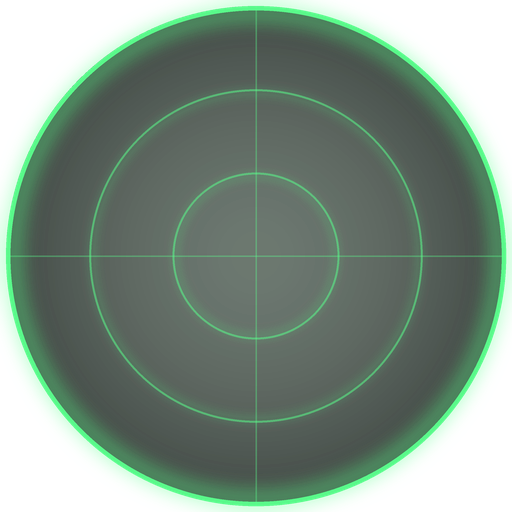
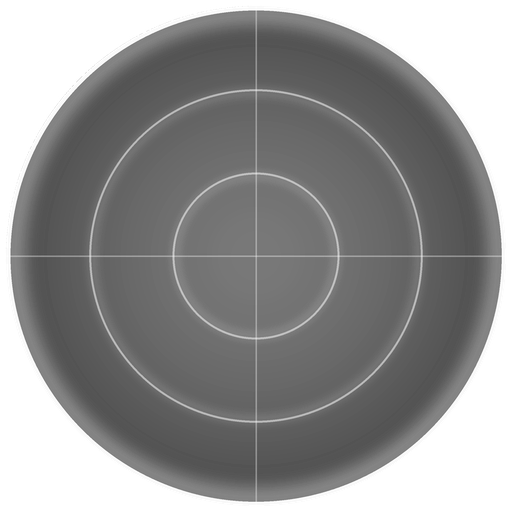
Sixth Sense v1.5.1: radar colours (green default, white, yellow, red, light blue) via a mouse-only Radar color snap slider; radar_color in the ini; Reset restores green; disc texture tinted

diff --git a/tests/stub_test.py b/tests/stub_test.py
@@ -534,7 +534,7 @@ C40 = g40.HUD_CFG
 check(os.path.exists(INI) and OLD in open(INI).read(), 'first load: rear_heat_hud.ini copied to sixth_sense.ini')
 check(abs(C40.sensitivity - 1.7) < 1e-9 and abs(C40.repeat_rate - 0.6) < 1e-9 and C40.dot_size == 'large' and abs(C40.radar_fx - 0.2) < 1e-9 and abs(C40.radar_aspect - 1.1) < 1e-9 and abs(C40.area_x0 - 11) < 1e-9, 'its sliders, area and radar keys are used')
 lg40 = open(LOGDIR + '/sixth_sense.log').read()
-check('Sixth Sense 1.5.0 loaded' in lg40 and 'settings copied from' in lg40, 'log is sixth_sense.log, copy logged')
+check('Sixth Sense 1.5.1 loaded' in lg40 and 'settings copied from' in lg40, 'log is sixth_sense.log, copy logged')
 open(LOGDIR + '/rear_heat_hud.ini', 'w').write('sensitivity=3.00\n')
 r41 = radar_rt(); u41 = r41.eval('update'); u41(0.016)
 check(abs(r41.globals().HUD_CFG.sensitivity - 1.7) < 1e-9, 'once only: an existing sixth_sense.ini is not overwritten')
@@ -764,6 +764,46 @@ rp = radar_rt(''); runr(rp, 220)
 for i in (4, 5): click_tab(rp, i); runr(rp, 2)
 lgp = open(LOGDIR + '/sixth_sense.log').read()
 check(not re.search(r' (MARK|PICK)\b', lgp) and 'MARKED' not in lgp and 'picked_ids' not in open(INI).read(), 'v1.5.0: clicks where Mark / Pick were log nothing; no picked_ids in the ini')
+# ---------------------------------------------------------------- v1.5.1: radar colours (mouse only)
+PAL = {'green': ((90, 255, 140), (255, 40, 40)), 'white': ((235, 235, 235), (255, 255, 255)), 'yellow': ((255, 225, 60), (255, 240, 0)),
+       'red': ((255, 70, 60), (255, 20, 20)), 'light_blue': ((110, 200, 255), (160, 225, 255))}
+ORDER = ['green', 'white', 'yellow', 'red', 'light_blue']
+FINDCFG = 'local function find(fn, name) for i = 1, 200 do local n, v = debug.getupvalue(fn, i); if not n then return end if n == name then return v end end end\nHUD_CFG = find(find(update, "step"), "CFG")'
+COLX = '\nCOLS = {}\nlocal gr = Gui.rect\nGui.rect = function(g, p, sz, c) COLS[c[2] .. "," .. c[3] .. "," .. c[4]] = true; return gr(g, p, sz, c) end\nHUD_CFG.radar_style = "dots"'
+open(INI, 'w').write(BASE146.replace('calibrate=false', 'calibrate=true') + 'v146_migrated=true\nradar_layouts=\n')
+rc = radar_rt(COLX); uc = rc.eval('update'); gc = rc.globals(); CC = gc.HUD_CFG
+def runc(sec):
+    for _ in range(max(1, int(sec / 0.016))): uc(0.016)
+def cols(): rc.execute('COLS = {}'); runc(0.1); return set(k for k, v in gc.COLS.items())
+def inival(k): return dict(re.findall(r'^(\w+)=(.*)$', open(INI).read(), re.M)).get(k)
+runc(3.5)
+check(CC.radar_color == 'green', 'default radar_color is green')
+cs = cols(); check('90,255,140' in cs and '255,40,40' in cs, 'default: green rings / cross hairs, red enemy dots (unchanged look)')
+click_tab(rc, 2); runc(0.5)
+tx, ty, tw, th = rc.eval('function(i) return SIXTH_SENSE_SLIDER(i) end')(5)
+for name in ['white', 'yellow', 'red', 'light_blue', 'green']:
+    frac = min(max(ORDER.index(name) / 4, 0.02), 0.98)
+    gc.MX, gc.MY = to_window(tx + tw * 0.5, ty + th / 2); runc(0.02); gc.LMB = 1; runc(0.02)
+    gc.MX, gc.MY = to_window(tx + tw * frac, ty + th / 2); runc(0.05); gc.LMB = 0; runc(1.2)
+    ring_, dot_ = PAL[name]; cs = cols()
+    check(CC.radar_color == name and inival('radar_color') == name and '; radar_color (v1.5.1)' in open(INI).read(), 'Radar color slider -> %s, saved with its comment (ini %s)' % (name, inival('radar_color')))
+    check('%d,%d,%d' % ring_ in cs and '%d,%d,%d' % dot_ in cs, '%s: rings / cross hairs %s and enemy dots %s drawn' % (name, ring_, dot_))
+CC.radar_color = 'yellow'
+for k in range(2, 16): rc.execute('PRESSED[%d] = true' % k); runc(0.02); rc.execute('PRESSED = {}'); runc(0.02)
+check(CC.radar_color == 'yellow', 'radar_color is mouse only: no key changes it')
+rc.execute('SIXTH_SENSE_CAL.dirty = true'); runc(1.2)
+r2c = runtime(); r2c.execute(FINDCFG)
+check(r2c.globals().HUD_CFG.radar_color == 'yellow', 'restart loads radar_color=yellow from the ini')
+click_tab(rc, 3); runc(0.1); click_tab(rc, 3); runc(1.2)
+check(CC.radar_color == 'green' and inival('radar_color') == 'green', 'Reset on Settings restores radar_color=green (saved)')
+open(INI, 'a').write('radar_color=purple\n')
+r3c = runtime(); r3c.execute(FINDCFG)
+check(r3c.globals().HUD_CFG.radar_color == 'green', 'unknown radar_color -> green')
+TEXC = EXTRA.replace('Gui.bitmap = function(g, mat, p, sz, c) BITMAPS = BITMAPS + 1 end', 'TINTS = {}\nGui.bitmap = function(g, mat, p, sz, c) BITMAPS = BITMAPS + 1; TINTS[c[2] .. "," .. c[3] .. "," .. c[4]] = true end') + '\nHUD_CFG.radar_color = "light_blue"'
+rt_ = radar_rt(TEXC); ut_ = rt_.eval('update')
+for _ in range(220): ut_(0.016)
+tints = set(k for k, v in rt_.globals().TINTS.items())
+check(rt_.globals().SIXTH_SENSE_RADAR.style == 'texture' and '110,200,255' in tints, 'texture disc tinted light_blue (%s)' % sorted(tints))
 os.remove(LOGDIR + '/rear_heat_hud.ini')
 print('calibration test:', 'PASS' if not fails else 'FAIL %d' % len(fails))
 if fails: raise SystemExit(1)

diff --git a/tools/radar_texture.py b/tools/radar_texture.py
@@ -1,4 +1,4 @@
-"""Rear Heat HUD radar disc texture: dark green-black see-through disc, bright green rim, rings at 1/3 and 2/3,
+"""Rear Heat HUD radar disc texture: neutral dark see-through disc, white rim (v1.5.1: tinted by radar_color), rings at 1/3 and 2/3,
 crosshair. Drawn at 4x and scaled down for smooth edges. Writes assets/radar_disc.png (512x512 RGBA)."""
 import math, sys
 from pathlib import Path
@@ -6,7 +6,7 @@ from PIL import Image, ImageDraw, ImageFilter
 import numpy as np
 
 SIZE = 512
-GREEN = (90, 255, 140)
+GREEN = (255, 255, 255)   # v1.5.1: white lines, tinted in game by radar_color (green 90,255,140 by default)
 
 def disc(size=SIZE):
     B = size * 4; c = B / 2; r = c - 24
@@ -14,7 +14,7 @@ def disc(size=SIZE):
     d = np.hypot(xx - c + 0.5, yy - c + 0.5) / r
     f = np.clip(d, 0, 1) ** 1.6
     a = np.zeros((B, B, 4), np.float32)
-    a[..., 0] = 6 - 4 * f; a[..., 1] = 26 - 16 * f; a[..., 2] = 12 - 7 * f
+    a[..., 0] = 26 - 16 * f; a[..., 1] = 26 - 16 * f; a[..., 2] = 26 - 16 * f   # (neutral: x tint green ~ the old 6,26,12)
     a[..., 3] = np.where(d <= 1, 150 + 40 * f, 0)
     img = Image.fromarray(a.clip(0, 255).astype(np.uint8), 'RGBA')
     def line(fn, alpha, w, glow=0, glow_a=0):

diff --git a/tools/label_textures.py b/tools/label_textures.py
@@ -7,7 +7,7 @@ HERE = Path(__file__).resolve().parents[1]
 sys.path.insert(0, str(HERE.parent / 'BingusSharedLoader/scripts'))
 from archive import resource_hash
 FONT = HERE.parent / 'Treasure-Radar/src/fonts/Poppins-Bold.ttf'
-LABELS = [('tab_display', 'Display'), ('tab_settings', 'Settings'), ('tab_reset', 'Reset'), ('size', 'Size'), ('sensitivity', 'Sensitivity'), ('repeat_rate', 'Repeat rate'), ('dot_size', 'Dot size'), ('visibility', 'Visibility'), ('vis_shown', 'Shown'), ('vis_hidden', 'Hidden')]
+LABELS = [('tab_display', 'Display'), ('tab_settings', 'Settings'), ('tab_reset', 'Reset'), ('size', 'Size'), ('sensitivity', 'Sensitivity'), ('repeat_rate', 'Repeat rate'), ('dot_size', 'Dot size'), ('radar_color', 'Radar color'), ('visibility', 'Visibility'), ('vis_shown', 'Shown'), ('vis_hidden', 'Hidden')]
 H = 48                                   # texture height; text cap about 30 px
 
 def label(text):

diff --git a/tools/build.py b/tools/build.py
@@ -15,7 +15,7 @@ from PIL import Image
 NAME = 'mods/darryl/sixth_sense'
 # (the textures keep their v1.3 resource paths: their ids are named in the Lua; the GUID is unchanged)
 TEXTURES = [('mods/darryl/rear_heat_hud/radar_disc', 'radar_disc.png')] + [
-    ('mods/darryl/rear_heat_hud/label_' + k, 'label_%s.png' % k) for k in ('size', 'sensitivity', 'repeat_rate', 'dot_size', 'visibility', 'vis_shown', 'vis_hidden', 'tab_display', 'tab_settings', 'tab_reset')]
+    ('mods/darryl/rear_heat_hud/label_' + k, 'label_%s.png' % k) for k in ('size', 'sensitivity', 'repeat_rate', 'dot_size', 'radar_color', 'visibility', 'vis_shown', 'vis_hidden', 'tab_display', 'tab_settings', 'tab_reset')]
 LUA, TEXTURE = 0xA14E8DFA2CD117E2, 0xCD4238C6A0C69E32
 
 def texture_resource(w, h):

diff --git a/HANDOFF.md b/HANDOFF.md
@@ -3,16 +3,17 @@
 > Current state only, in five parts. Update in place at each checkpoint. Rationale, decisions, and history go to [docs/history/](docs/history/), and release notes go to [CHANGELOG.md](CHANGELOG.md).
 
 ## Current goal
-Get **v1.5.0** confirmed in game (with v1.4.7's settings-file fix): a 360° north-up enemy radar HUD for Helldivers 2, a Lua addon under HellForge's Bingus Shared Loader (LuaJIT, offline build 25480438). Work goes on `develop`; batch several fixes per build.
+Get **v1.5.1** confirmed in game (with v1.4.7's settings-file fix): a 360° north-up enemy radar HUD for Helldivers 2, a Lua addon under HellForge's Bingus Shared Loader (LuaJIT, offline build 25480438). Work goes on `develop`; batch several fixes per build.
 
 ## What is done
 - v1.4.6 per-resolution layouts (`radar_layouts`, unsaved = centred, Reset clears current only): approved in game by Darryl.
 - v1.4.7: settings file search APPDATA -> LOCALAPPDATA -> `<HellForge>\userdata\profiles\*\user_settings.config`; drawable area = top-left render_resolution, logged as `viewport:` (not yet tested in game).
 - v1.5.0: Mark and Pick removed completely at Darryl's request (buttons, logging, F7 text, radar blink, `picked_ids`, label textures).
-- F7 page: Display / Settings tabs, grab and corner handles, Reset, F7 held 3 s, resolution line. No `[ ]`, no F8. Settings: 4 sliders + Shown / Hidden.
+- v1.5.1: radar colours (green default, white, yellow, red, light_blue) via a mouse-only "Radar color" snap slider on Settings; `radar_color` in the ini; Reset -> green. Disc texture is white, tinted with the Gui.bitmap colour.
+- F7 page: Display / Settings tabs, grab and corner handles, Reset, F7 held 3 s, resolution line. No `[ ]`, no F8. Settings: 5 sliders (Size, Sensitivity, Repeat rate, Dot size, Radar color) + Shown / Hidden.
 
 ## What is blocked
-- Darryl's in-game tests of v1.4.7 (`viewport:` should name `profiles\default\user_settings.config`, render 2960x832) and v1.5.0 (F7 page with Display / Settings / Reset only).
+- Darryl's in-game tests of v1.4.7 (`viewport:` should name `profiles\default\user_settings.config`, render 2960x832), v1.5.0 (F7 page with Display / Settings / Reset only) and v1.5.1 (does the Gui.bitmap colour tint the disc in game? if not, the disc shows white whatever the colour).
 - Illuminate turret ids: still unknown (Mark / Pick, the planned way to collect them, was removed); add any found to `static_ids`.
 - Gui.resolution "596 1" unexplained; GUI transform only measured at 3840x1080.
 
@@ -24,4 +25,4 @@ Get **v1.5.0** confirmed in game (with v1.4.7's settings-file fix): a 360° nort
 - User docs and per-version notes: [README.md](README.md).
 
 ## Next concrete action
-Get Darryl's v1.5.0 log (`viewport:` lines) and confirm the F7 page without Mark / Pick in game.
+Get Darryl's v1.5.1 log (`viewport:` lines); confirm in game that each radar colour tints the disc and dots and the F7 page without Mark / Pick.

diff --git a/README.md b/README.md
@@ -1,6 +1,6 @@
 # Sixth Sense (formerly Rear Heat HUD; HellForge / offline HD2 build 25480438)
 
-*Sixth Sense v1.5.0 is a 360-degree enemy radar. The section below describes the original v0.x bars; see the version notes at the end for what it is now.*
+*Sixth Sense v1.5.1 is a 360-degree enemy radar. The section below describes the original v0.x bars; see the version notes at the end for what it is now.*
 
 Three bars at the bottom centre of the screen: **left-rear, rear, right-rear**. Each one fades from clear to yellow
 to red as the threat behind you rises. Threat in a sector = the sum, over living enemies within `range` metres
@@ -413,3 +413,13 @@ where the camera looks.
   The `Mark` / `Pick` label textures are gone from the zip. The F7 page now has Display, Settings and Reset only;
   everything else (radar, tabs, Shown / Hidden, per-resolution layouts, viewport) is unchanged. The v1.4.8 / v1.4.9
   notes above are history.
+
+## v1.5.1 changes
+
+- **Radar colours**: a fifth snap slider, **Radar color**, on the F7 page's Settings tab (mouse only; no keys) picks
+  green (default), white, yellow, red or light blue; a swatch right of the track shows the colour and its dot colour.
+  The colour tints the radar disc texture (now drawn white and tinted in game), the rings and cross hairs of the dot
+  fallback, and the enemy dots (green keeps its red enemy dots, so the default looks as before; the other colours use
+  a brighter dot of the same colour). Enemy structures stay orange diamonds in every colour. Saved as
+  `radar_color=green|white|yellow|red|light_blue` (with a comment); an unknown value falls back to green. Reset on the
+  Settings tab restores green.

diff --git a/docs/history/2026-11-01-dev-history.md b/docs/history/2026-11-01-dev-history.md
@@ -74,3 +74,6 @@ Nothing showed on screen where expected, so drawing was debugged step by step:
 
 ## Mark and Pick removed (v1.5.0, 2026-11-02)
 - At Darryl's request, Mark and Pick were removed completely: buttons 4 and 5, the targeting code, `MARK` / `PICK` log lines, `MARKED:` F7 text, the radar blink ring, `picked_ids` persistence and the Mark / Pick label textures. The F7 panel shrank to three buttons (Display, Settings, Reset). Their stub tests were replaced by a check that none of it remains.
+
+## Radar colours (v1.5.1, 2026-11-02)
+- Darryl asked for colour options besides green: white, yellow, red, light blue. Added as a fifth snap slider (mouse only, like Dot size) with a swatch instead of a text value (the pixel font lacks some letters). To recolour the disc without five textures, `radar_disc.png` is now white lines on a neutral dark fill and tinted through the `Color` argument of `Gui.bitmap` (not yet proven in game: if the engine ignores the tint the disc shows white). Green keeps red enemy dots so the default is unchanged; other colours use a brighter dot of the same hue. Enemy structures stay orange.

diff --git a/CHANGELOG.md b/CHANGELOG.md
@@ -6,6 +6,12 @@ Versions before v1.3.2 were built before the repo was put under git and are unda
 
 ## [Unreleased]
 
+## [1.5.1] - 2026-11-02
+### Added
+- Radar colours: green (default), white, yellow, red, light blue. "Radar color" snap slider on the F7 Settings tab (mouse only) with a swatch; tints the disc, rings, cross hairs and enemy dots (enemy structures stay orange). `radar_color` in the ini with a comment; Reset restores green.
+### Changed
+- The radar disc texture is drawn white and tinted in game (`Gui.bitmap` colour); green looks as before.
+
 ## [1.5.0] - 2026-11-02
 ### Removed
 - Mark and Pick (v1.4.8 / v1.4.9), at Darryl's request: the F7 buttons, `MARK` / `PICK` log lines, `MARKED:` text, the radar blink ring, `picked_ids` ini persistence, and the Mark / Pick label textures. F7 page is Display / Settings / Reset.
